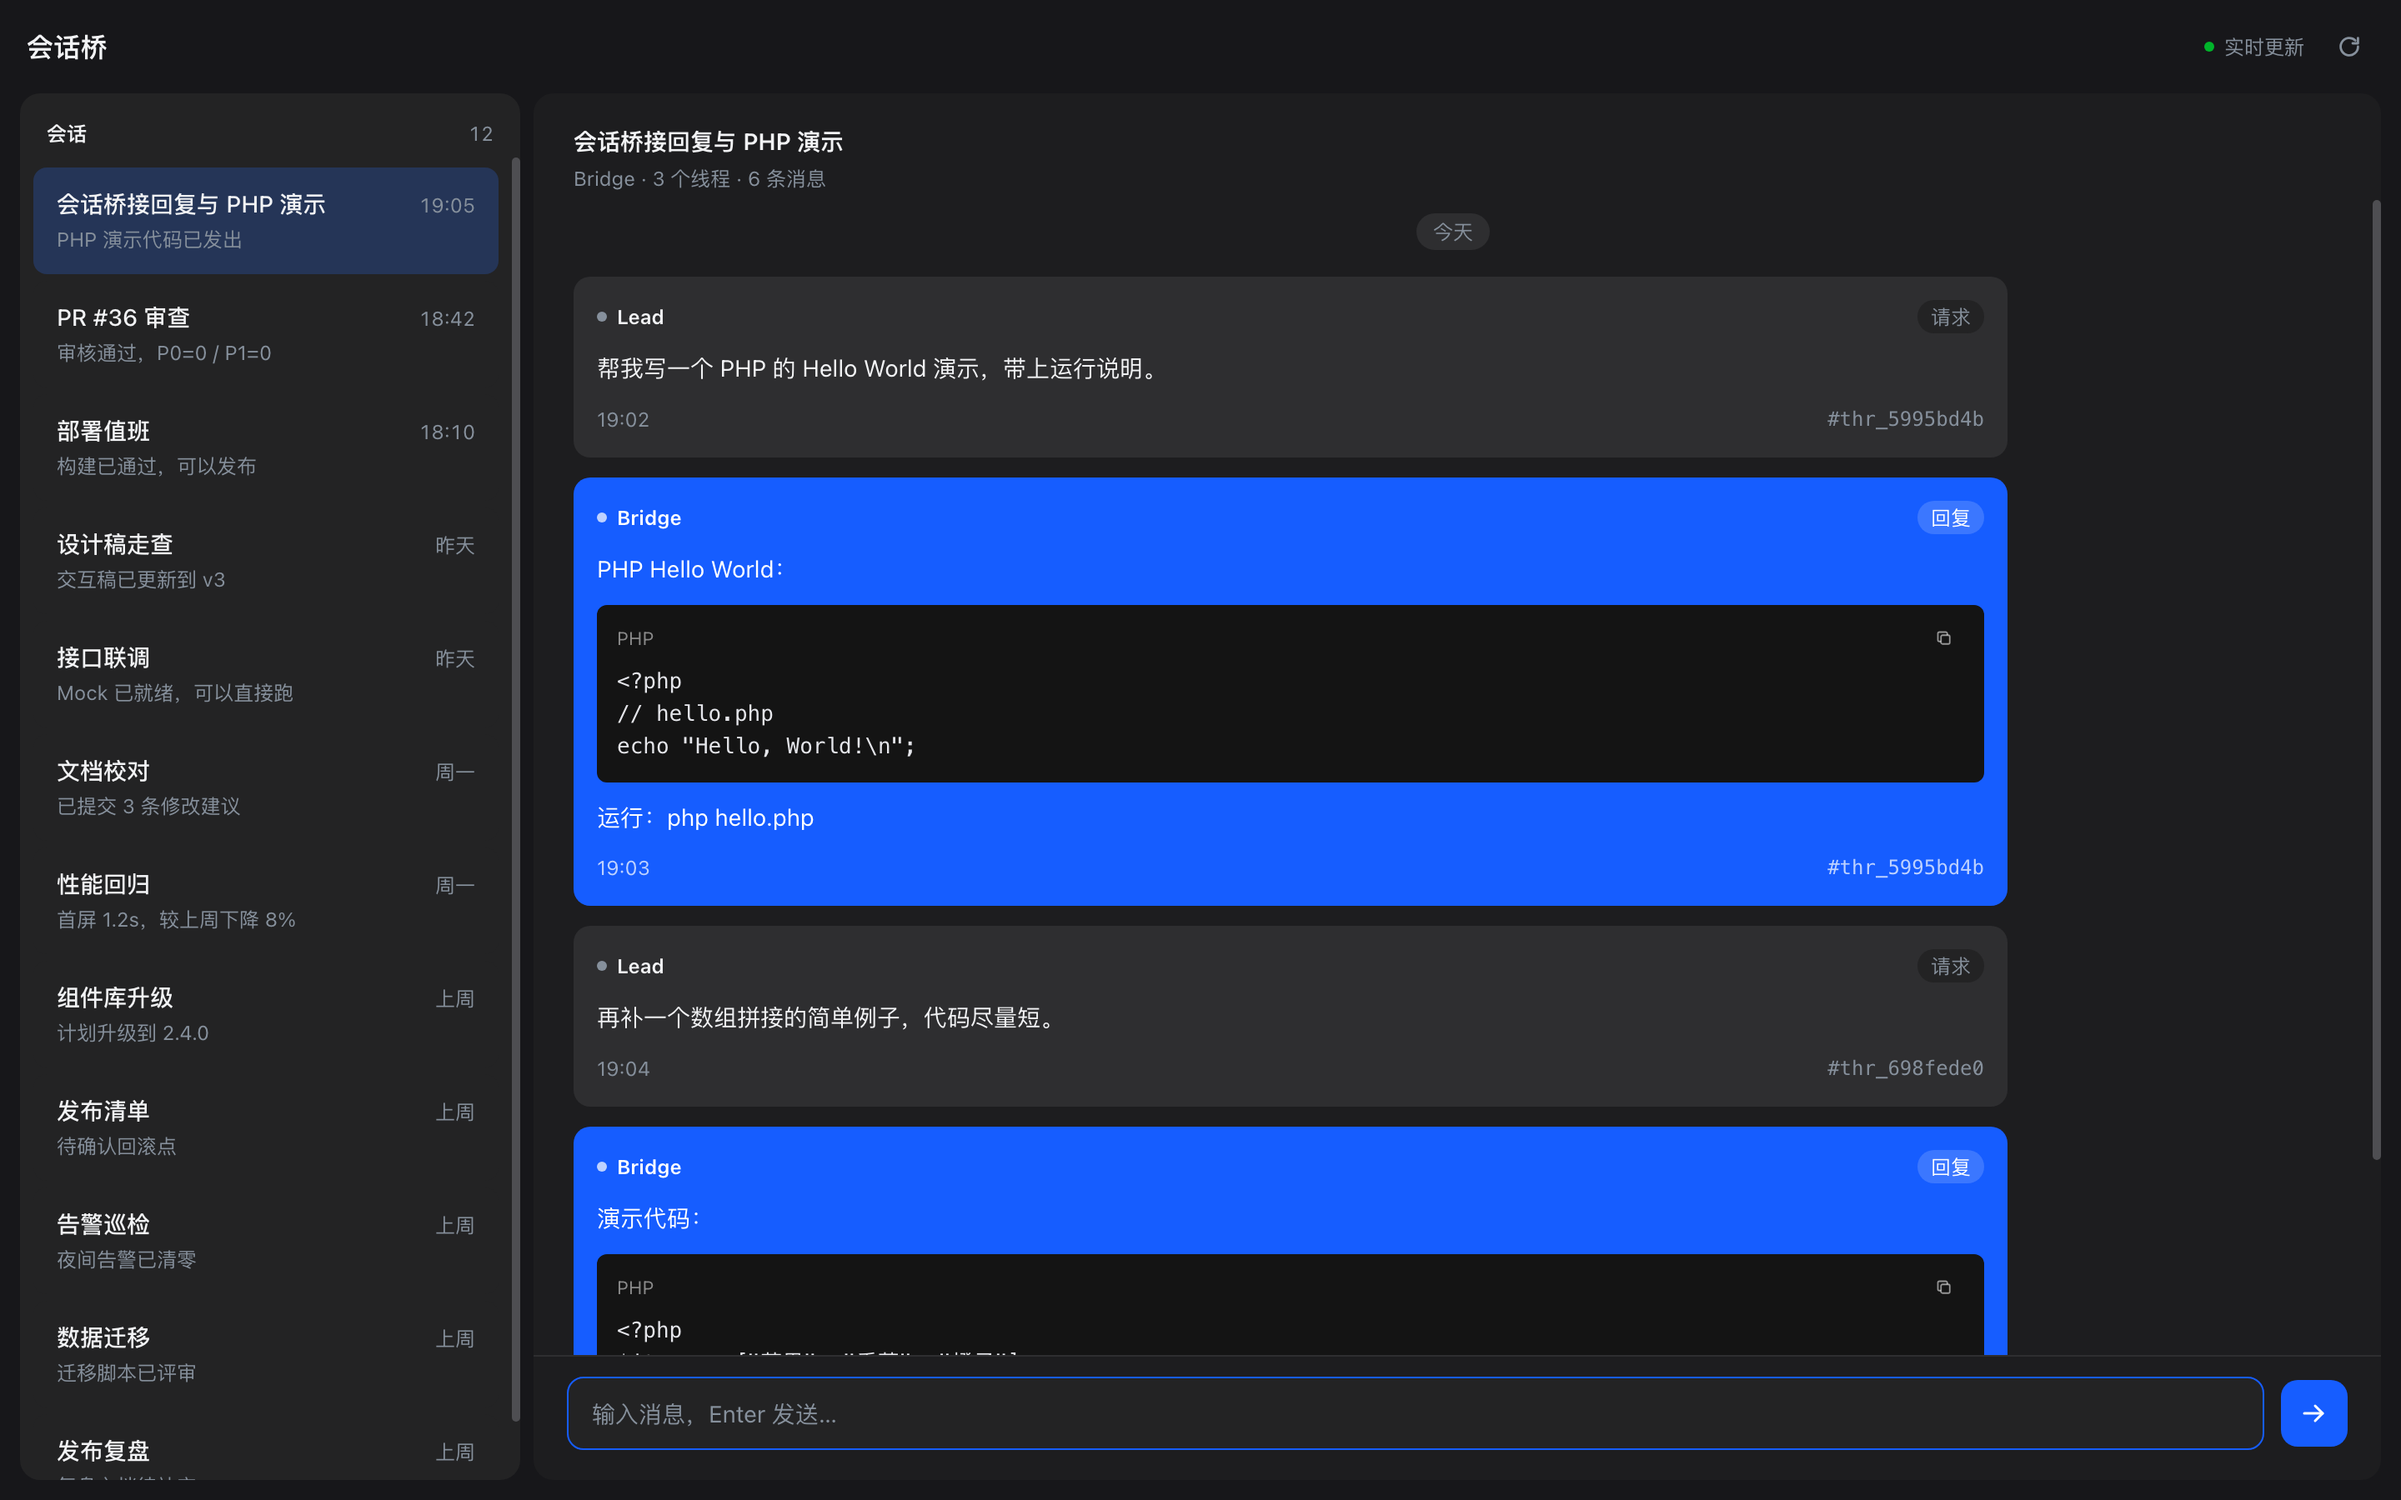
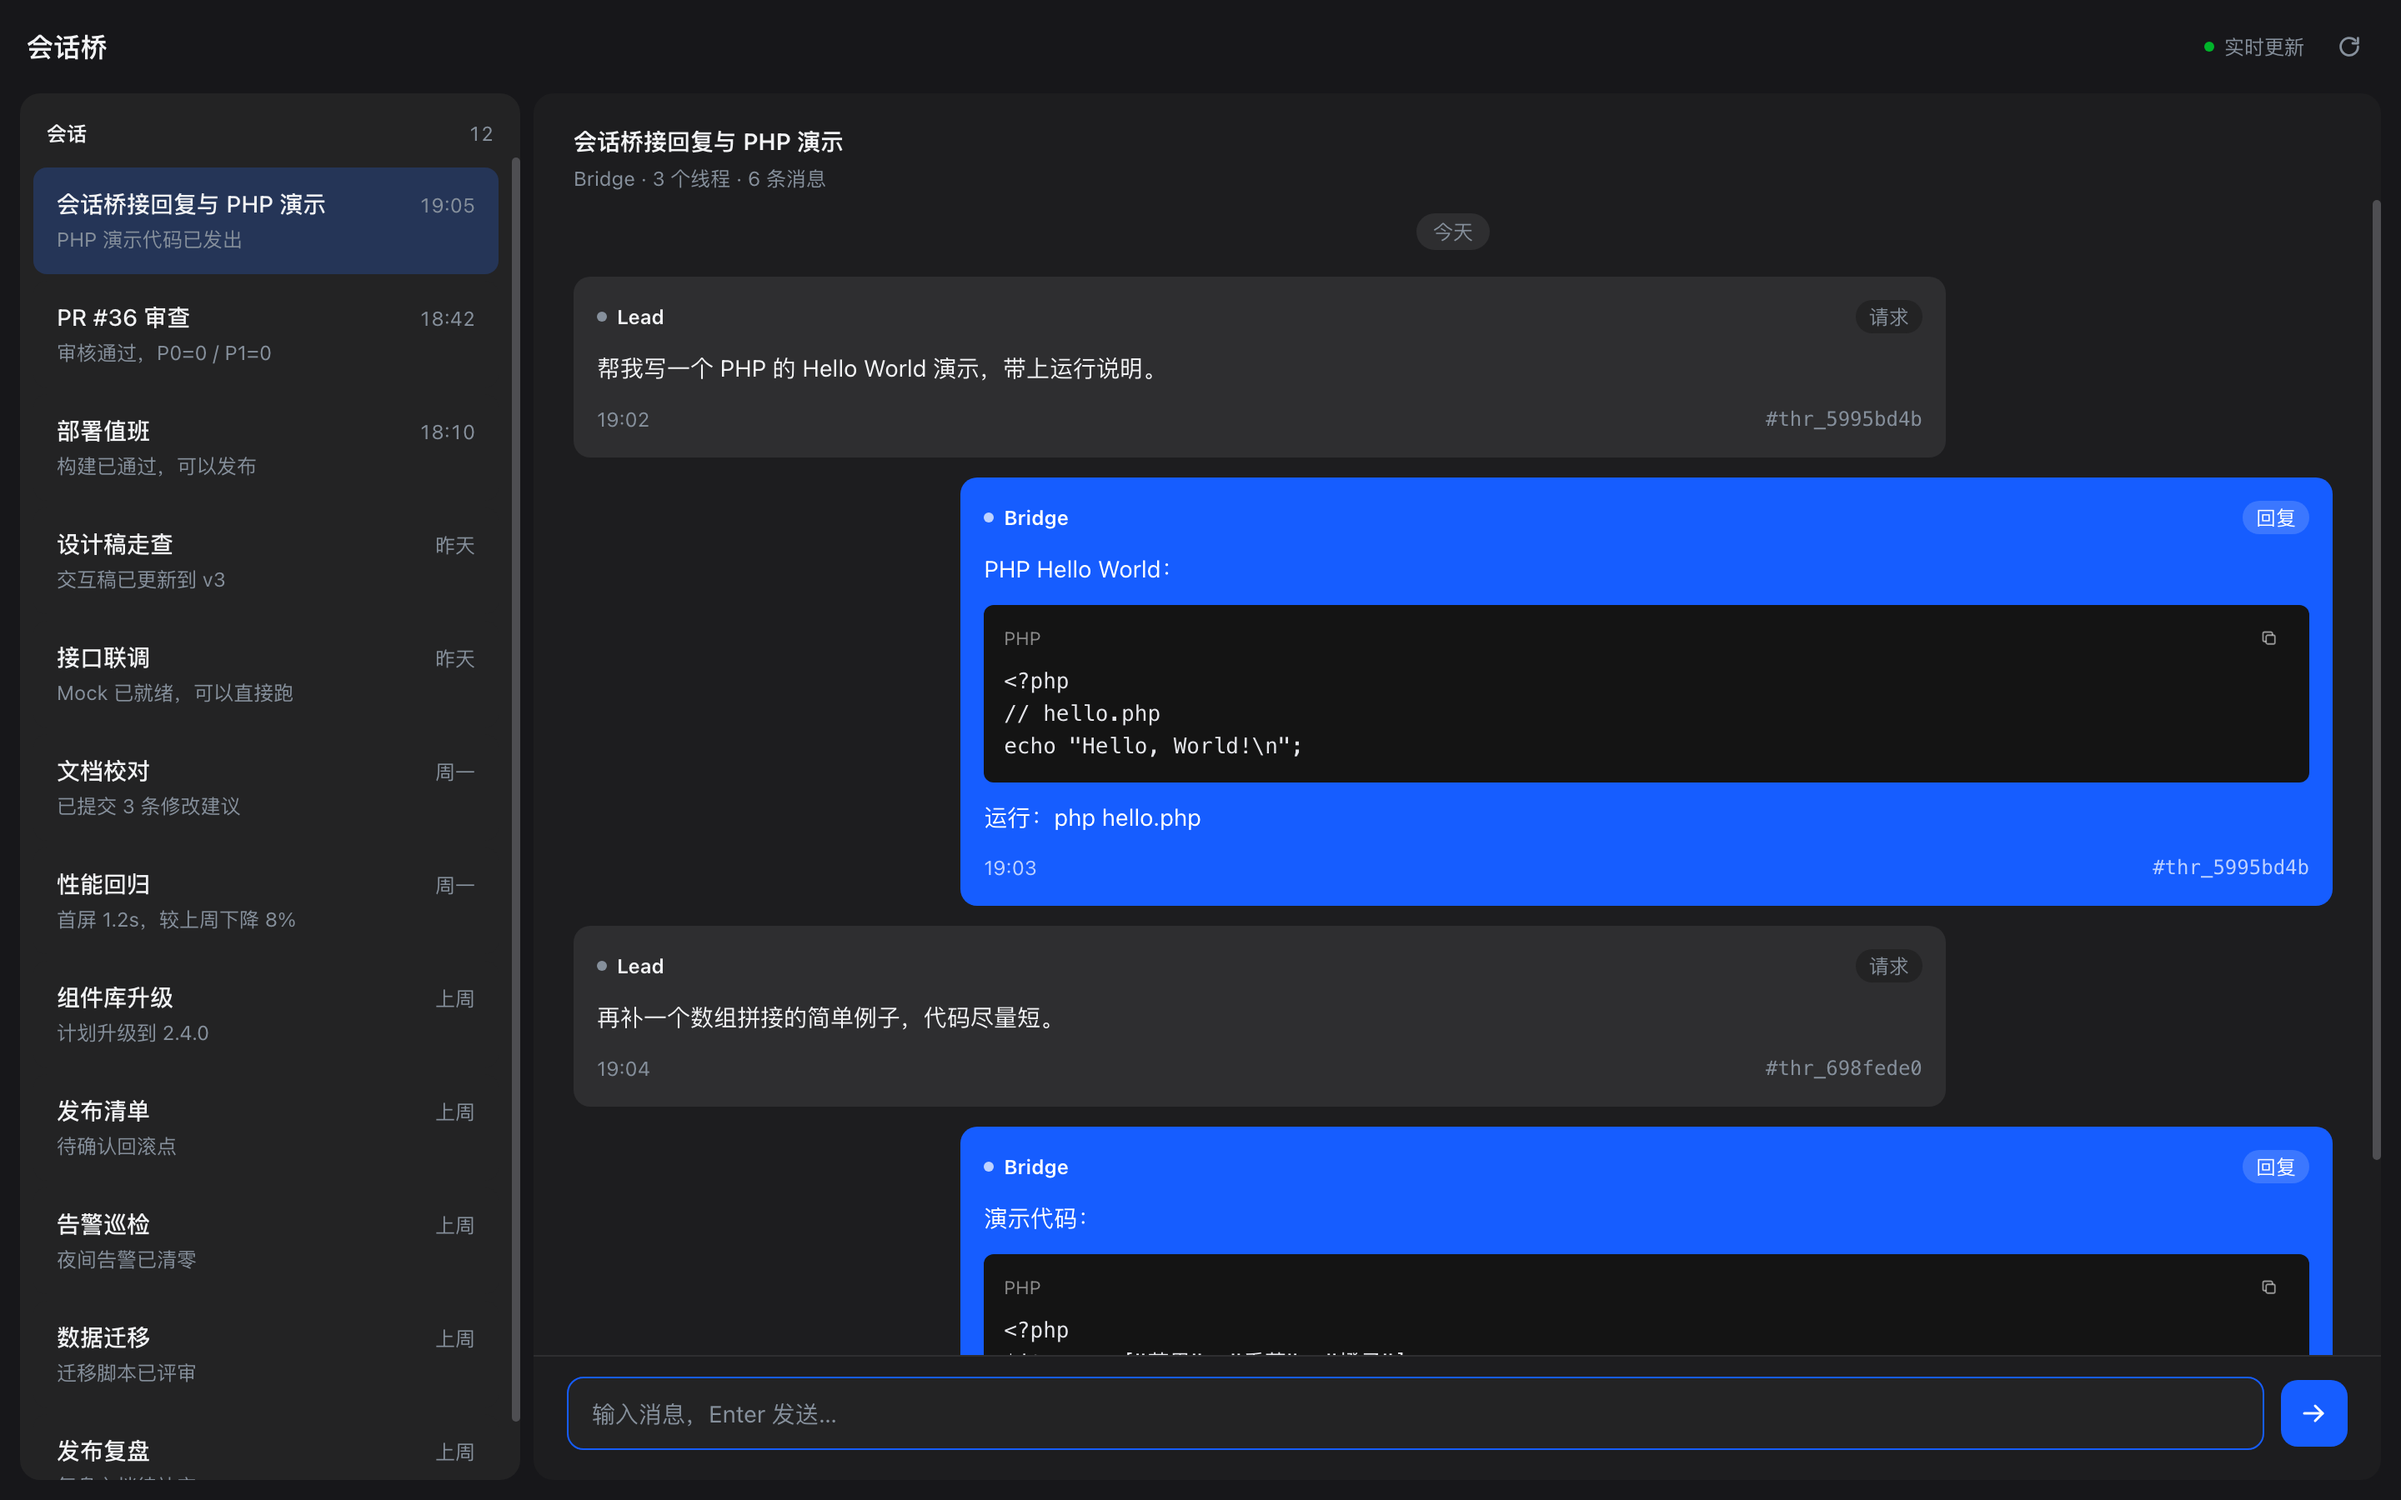
fix: pin bridge layout and align sender cards right
Constrain the view root like the Trajectory view, add overscroll containment,
and make the sidebar and message area the only scroll containers so the top bar
and composer stay fixed. Align Lead cards left and Bridge cards right in both
the live view and the design previews.

diff --git a/client.js b/client.js
@@ -95,8 +95,8 @@ window.__ModuleLoader__.load({
   --dsb-text:#1D2129; --dsb-muted:#86909C; --dsb-code-bg:#1D2129; --dsb-code-text:#F2F3F5;
   --dsb-input:#FFFFFF; --dsb-focus:#165DFF; --dsb-line:#E5E6EB; --dsb-tag-bg:#FFFFFF;
   --dsb-scroll:#C9CDD4; --dsb-scroll-hover:#A9AEB8;
-  height:100%; min-height:320px; padding:0 12px 12px; background:var(--dsb-bg); color:var(--dsb-text);
-  display:flex; flex-direction:column; min-height:0; box-sizing:border-box;
+  height:100%; flex:1 1 auto; min-height:0; padding:0 12px 12px; background:var(--dsb-bg); color:var(--dsb-text);
+  display:flex; flex-direction:column; overflow:hidden; isolation:isolate; box-sizing:border-box;
   font-family:Inter, -apple-system, BlinkMacSystemFont, "PingFang SC", "Hiragino Sans GB", "Microsoft YaHei", sans-serif;
 }
 body[data-ds-dark-theme] .dsb-root {
@@ -120,7 +120,7 @@ body[data-ds-dark-theme] .dsb-root {
 .dsb-sidebar-head { flex:0 0 auto; display:flex; align-items:baseline; gap:6px; padding:16px 16px 6px; color:var(--dsb-muted); font-size:12px; }
 .dsb-sidebar-head strong { color:var(--dsb-text); font-size:12px; font-weight:600; }
 .dsb-sidebar-head .dsb-count { margin-left:auto; font-variant-numeric:tabular-nums; }
-.dsb-list { flex:1; min-height:0; overflow-y:auto; padding:2px 0 8px; }
+.dsb-list { flex:1; min-height:0; overflow-y:auto; overscroll-behavior:contain; padding:2px 0 8px; }
 .dsb-thread { display:block; width:calc(100% - 16px); margin:4px 8px; padding:12px 14px; border:0; border-radius:8px; background:var(--dsb-item); color:var(--dsb-text); text-align:left; font:inherit; cursor:pointer; transition:background-color .2s ease; }
 .dsb-thread:hover { background:var(--dsb-item-hover); }
 .dsb-thread[data-active="true"] { background:var(--dsb-item-active); }
@@ -132,11 +132,12 @@ body[data-ds-dark-theme] .dsb-root {
 .dsb-chat-head { flex:0 0 auto; padding:18px 24px 4px; }
 .dsb-chat-title { font-size:14px; font-weight:600; line-height:22px; }
 .dsb-chat-sub { margin-top:2px; color:var(--dsb-muted); font-size:12px; line-height:18px; }
-.dsb-messages { flex:1; min-height:0; overflow-y:auto; padding:6px 24px 20px; display:flex; flex-direction:column; gap:12px; }
+.dsb-messages { flex:1; min-height:0; overflow-y:auto; overscroll-behavior:contain; padding:6px 24px 20px; display:flex; flex-direction:column; gap:12px; }
 .dsb-date { align-self:center; margin:2px 0 4px; padding:2px 10px; border-radius:999px; background:var(--dsb-lead); color:var(--dsb-muted); font-size:12px; line-height:18px; }
 .dsb-history { position:sticky; top:0; z-index:2; align-self:center; display:inline-flex; align-items:center; gap:6px; margin:0 0 4px; padding:3px 12px; border:1px dashed var(--dsb-line); border-radius:999px; background:var(--dsb-chat); color:var(--dsb-muted); font-size:12px; line-height:18px; cursor:pointer; }
 .dsb-history:hover { color:var(--dsb-text); }
-.dsb-card { width:100%; max-width:860px; border-radius:10px; padding:14px; display:flex; flex-direction:column; gap:10px; }
+.dsb-card { width:78%; max-width:860px; align-self:flex-start; border-radius:10px; padding:14px; display:flex; flex-direction:column; gap:10px; }
+.dsb-card[data-side="right"] { align-self:flex-end; }
 .dsb-card[data-variant="lead"] { background:var(--dsb-lead); color:var(--dsb-text); --dsb-card-muted:var(--dsb-muted); --dsb-card-tag-bg:var(--dsb-tag-bg); --dsb-card-tag-text:var(--dsb-muted); --dsb-card-dot:var(--dsb-muted); }
 .dsb-card[data-variant="bridge"] { background:var(--dsb-bridge); color:#FFFFFF; --dsb-card-muted:rgba(255,255,255,.72); --dsb-card-tag-bg:rgba(255,255,255,.16); --dsb-card-tag-text:#FFFFFF; --dsb-card-dot:rgba(255,255,255,.72); }
 .dsb-card-head { display:flex; align-items:center; gap:8px; min-width:0; }
@@ -175,6 +176,7 @@ body[data-ds-dark-theme] .dsb-root {
   .dsb-chat-head { padding:14px 16px 4px; }
   .dsb-messages { padding:6px 16px 16px; }
   .dsb-composer { padding:10px 12px 14px; }
+  .dsb-card { width:92%; }
 }
 `
 
@@ -596,6 +598,7 @@ body[data-ds-dark-theme] .dsb-root {
             key: message.id,
             className: 'dsb-card',
             'data-variant': variant,
+            'data-side': variant === 'bridge' ? 'right' : 'left',
           },
             h('header', { className: 'dsb-card-head' },
               h('span', { className: 'dsb-sender' },

diff --git a/design/session-bridge-chat.html b/design/session-bridge-chat.html
@@ -106,10 +106,10 @@
   .date { align-self: center; margin: 2px 0 4px; padding: 2px 10px; border-radius: 999px; background: var(--lead); color: var(--muted); font-size: 12px; line-height: 18px; }
 
   .card {
-    width: 100%; max-width: 860px; border-radius: 10px; padding: 14px; display: flex; flex-direction: column; gap: 10px;
+    width: 78%; max-width: 860px; border-radius: 10px; padding: 14px; display: flex; flex-direction: column; gap: 10px;
   }
-  .card[data-variant="lead"] { background: var(--lead); color: var(--text); --card-muted: var(--muted); --card-tag-bg: var(--tag-bg); --card-tag-text: var(--muted); --card-dot: var(--muted); }
-  .card[data-variant="bridge"] { background: var(--bridge); color: #FFFFFF; --card-muted: rgba(255,255,255,.72); --card-tag-bg: rgba(255,255,255,.16); --card-tag-text: #FFFFFF; --card-dot: rgba(255,255,255,.72); }
+  .card[data-variant="lead"] { align-self: flex-start; background: var(--lead); color: var(--text); --card-muted: var(--muted); --card-tag-bg: var(--tag-bg); --card-tag-text: var(--muted); --card-dot: var(--muted); }
+  .card[data-variant="bridge"] { align-self: flex-end; background: var(--bridge); color: #FFFFFF; --card-muted: rgba(255,255,255,.72); --card-tag-bg: rgba(255,255,255,.16); --card-tag-text: #FFFFFF; --card-dot: rgba(255,255,255,.72); }
   .card-head { display: flex; align-items: center; gap: 8px; min-width: 0; }
   .sender { display: inline-flex; align-items: center; gap: 6px; font-size: 12px; font-weight: 600; line-height: 18px; }
   .sender-dot { width: 6px; height: 6px; border-radius: 50%; background: var(--card-dot); }

diff --git a/README.md b/README.md
@@ -88,10 +88,11 @@ light/dark theme. The layout is a fixed sidebar plus a chat panel:
 - The right messages area scrolls independently; the composer stays pinned at
   the bottom. One card is one session pair, so every thread and historical
   message between that pair lives in the same chat, not a new card per thread.
-- Messages are stream cards, not left/right bubbles: Lead request cards use the
-  neutral surface; Bridge reply cards always use `#165DFF` with white text.
-  Each card carries the sender, a request/reply tag, the message body, a `#thread`
-  id, a time, and any fenced PHP block as a dark code block with a copy action.
+- Messages are stream cards aligned by sender rather than WeChat-style bubbles:
+  Lead cards sit left on the neutral surface; Bridge cards sit right and always
+  use `#165DFF` with white text. Each card carries the sender, a request/reply
+  tag, the message body, a `#thread` id, a time, and any fenced PHP block as a
+  dark code block with a copy action.
 - Today's messages are visible by default; older history stays behind an
   **Earlier messages** control. A centered date divider separates days.
 - New messages arrive over an authenticated server-sent event stream and append

diff --git a/SPEC.md b/SPEC.md
@@ -17,8 +17,10 @@
 >   「会话桥」标签：同一对会话的所有线程合并为一个聊天窗，左侧列表独立
 >   滚动、右侧消息区独立滚动，底部输入栏固定；默认显示当天并折叠更早历史；
 >   新消息通过 `/api/session-bridge/events`（SSE）实时追加，不做定时轮询。
->   消息为流式卡片：Lead 请求用中性底色，Bridge 回复固定 #165DFF 白字，
->   代码块深色并带复制；面板跟随宿主 `body[data-ds-dark-theme]` 切换浅/深色。
+>   消息为流式卡片并按发送方分侧：Lead 在左、Bridge 在右；Lead 用中性底色，
+>   Bridge 回复固定 #165DFF 白字；代码块深色并带复制；列表与消息区各自独立
+>   滚动，顶部栏与底部输入栏固定；面板跟随宿主 `body[data-ds-dark-theme]`
+>   切换浅/深色。
 >   底部输入栏通过 `/api/session-bridge/send` 排队请求；数据路由受 Web 连接
 >   owner 防火墙保护。
 > - 审计表只记录路由与状态，不记录消息正文。
